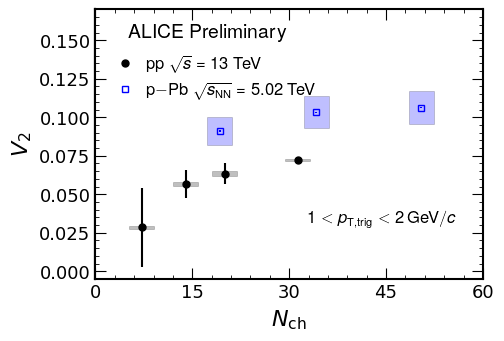
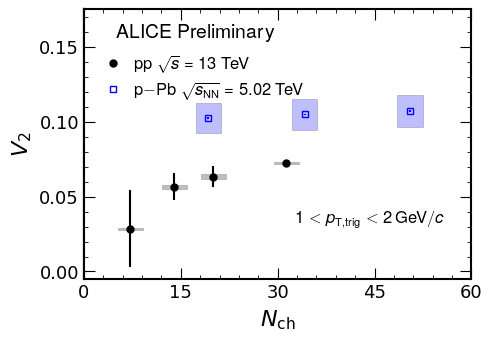
updates

diff --git a/Fig6_vn_comp.py b/Fig6_vn_comp.py
@@ -28,7 +28,7 @@ dataTypePlotParams = [
 nrow = 1;
 ncol = 1;
 xlimits = [(0,4)];
-ylimits = [(-0.005,0.17)];
+ylimits = [(-0.005,0.175)];
 rlimits = [(0.,4.5),(0.,4.5)];
 
 
